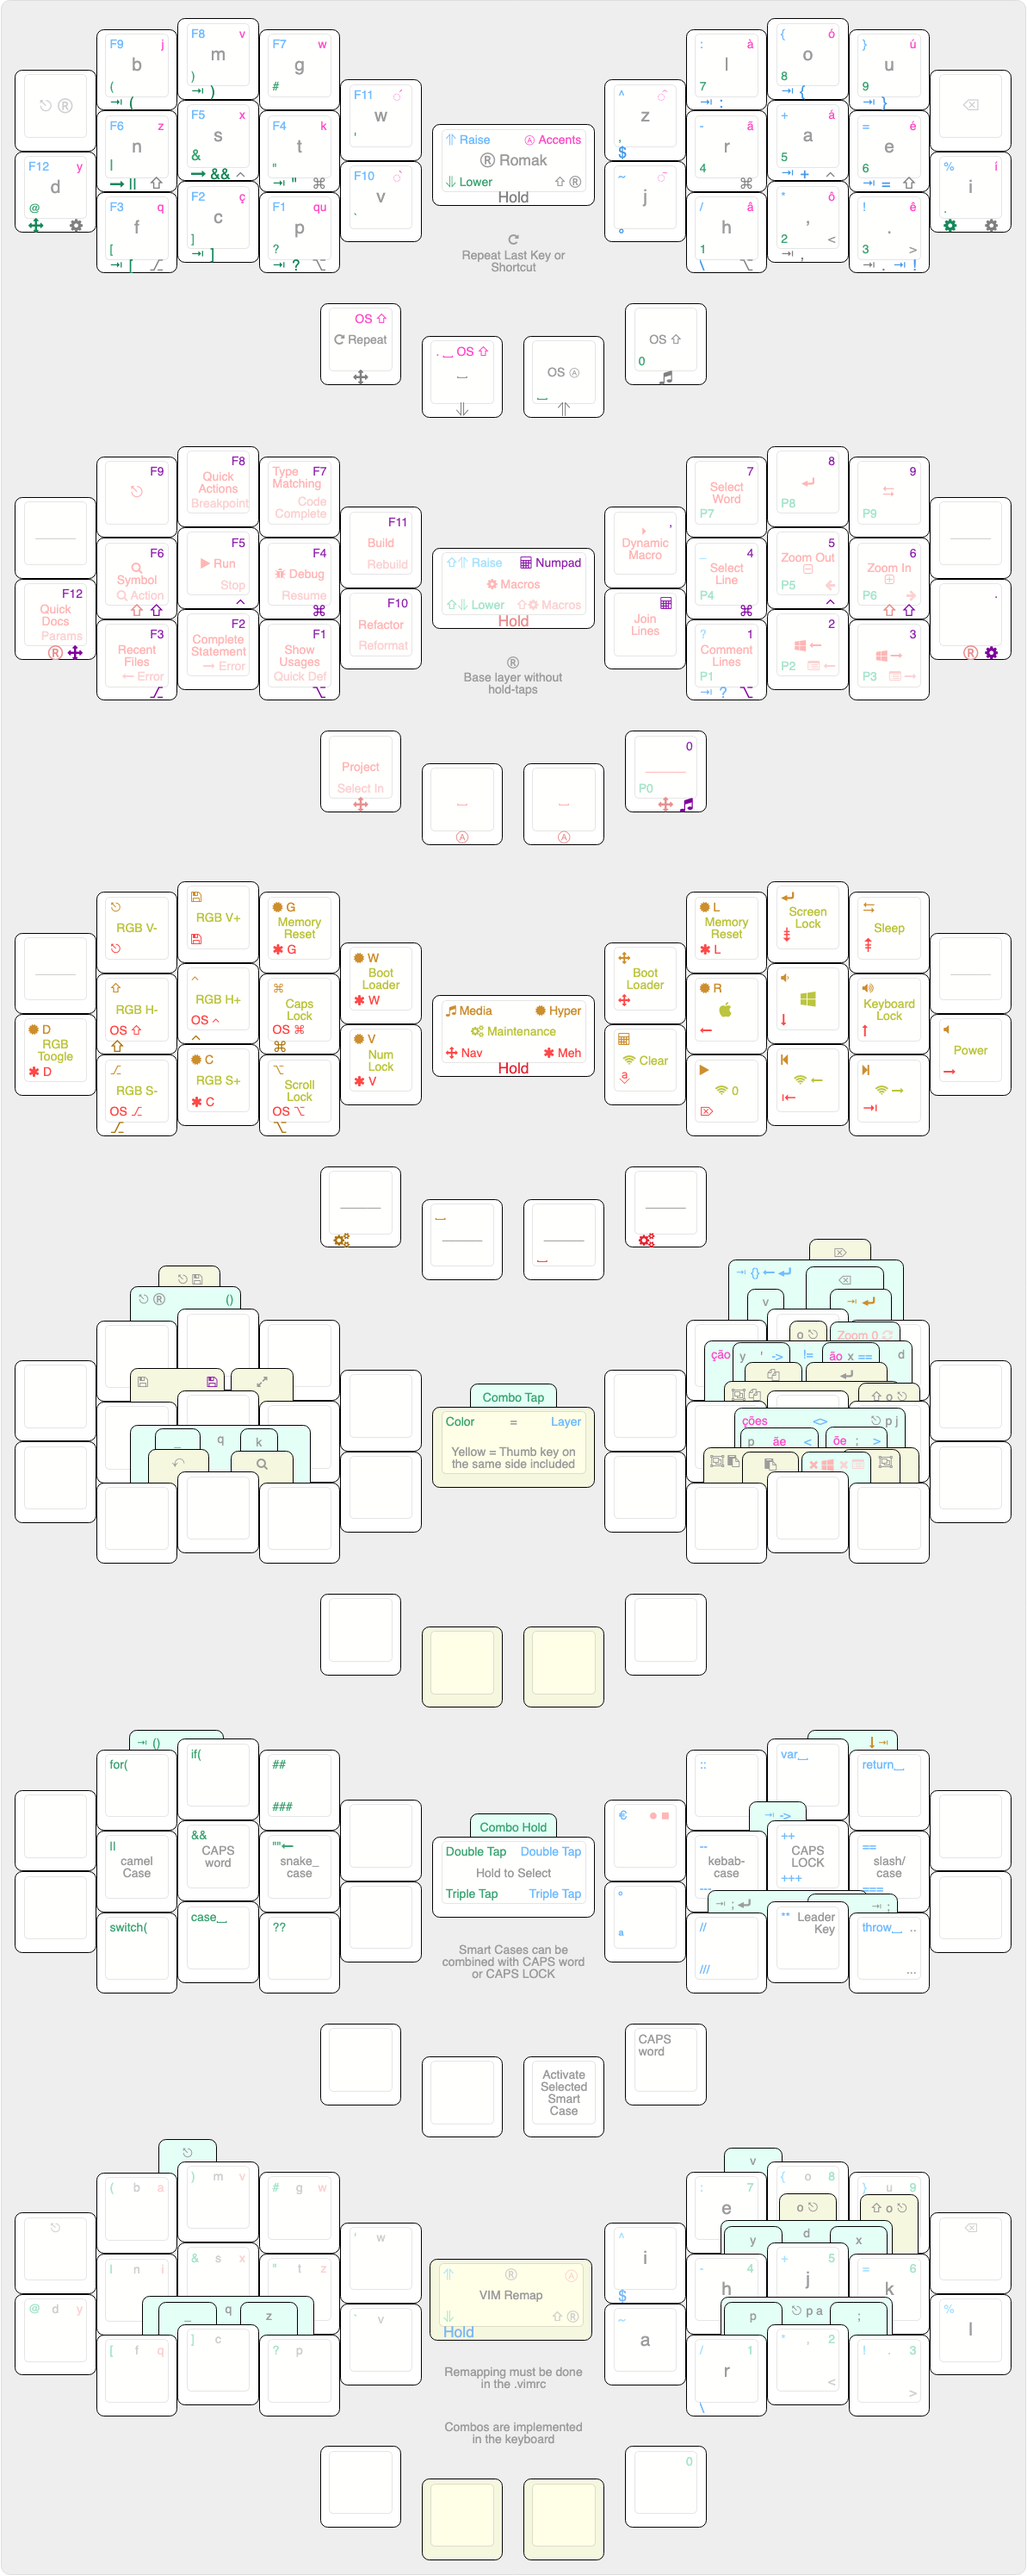
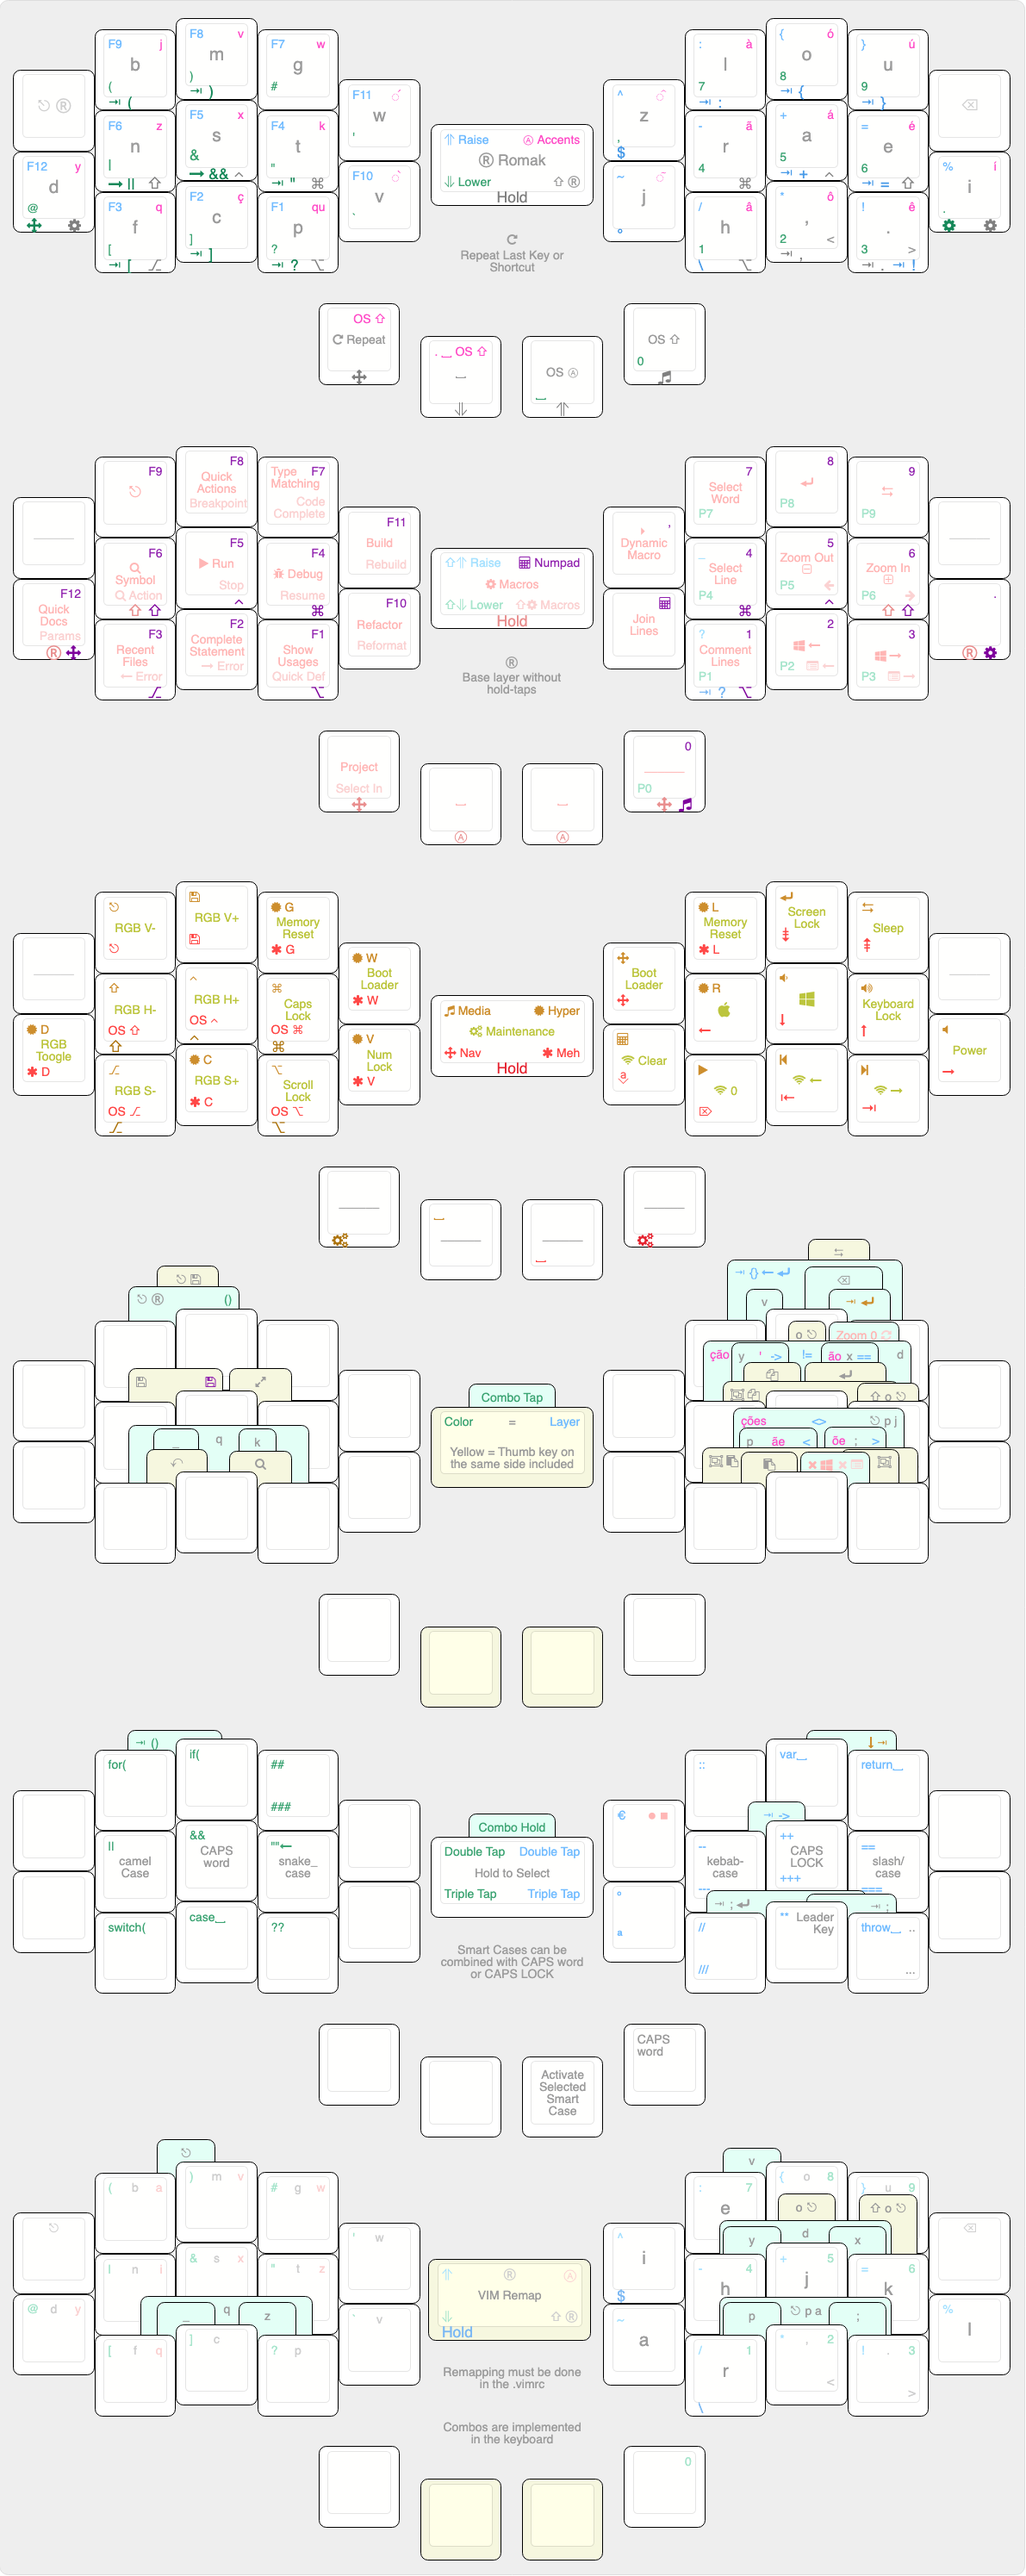
replace delete combo by tab combo

diff --git a/src/qmk/users/rafaelromao/features/combos.c b/src/qmk/users/rafaelromao/features/combos.c
@@ -8,7 +8,7 @@ const uint16_t PROGMEM l_num_esc_combo[] = {KC_F9, KC_F8, COMBO_END};
 const uint16_t PROGMEM l_num_sav_combo[] = {KC_SPC, SF_F6, CT_F5, COMBO_END};
 const uint16_t PROGMEM r_num_ent_combo[] = {RAI_SPC, CT_5, SF_6, COMBO_END};
 const uint16_t PROGMEM r_num_bsp_combo[] = {KC_8, KC_9, COMBO_END};
-const uint16_t PROGMEM r_num_del_combo[] = {RAI_SPC, KC_8, KC_9, COMBO_END};
+const uint16_t PROGMEM r_num_tab_combo[] = {RAI_SPC, KC_8, KC_9, COMBO_END};
 
 // Lower
 
@@ -77,7 +77,7 @@ const uint16_t PROGMEM r_rom_pas_combo[] = {RAI_ACT, LALTT_H, TD_COMM, COMBO_END
 const uint16_t PROGMEM r_rom_spa_combo[] = {RAI_ACT, LALTT_H, TD_COMM, TD_DOT, COMBO_END};
 const uint16_t PROGMEM r_rom_ent_combo[] = {RAI_ACT, RCTLT_A, RSFTT_E, COMBO_END};
 const uint16_t PROGMEM r_rom_bsp_combo[] = {KC_O, KC_U, COMBO_END};
-const uint16_t PROGMEM r_rom_del_combo[] = {RAI_ACT, KC_O, KC_U, COMBO_END};
+const uint16_t PROGMEM r_rom_tab_combo[] = {RAI_ACT, KC_O, KC_U, COMBO_END};
 const uint16_t PROGMEM r_rom_sal_combo[] = {RAI_ACT, TD_COMM, TD_DOT, COMBO_END};
 const uint16_t PROGMEM r_rom_sco_combo[] = {TD_COMM, TD_DOT, COMBO_END};
 #ifndef SAVE_MEMORY
@@ -94,7 +94,7 @@ combo_t key_combos[] = {
     COMBO(r_rom_p_combo, KC_P),       COMBO(l_acc_esc_combo, MC_ESCC),  COMBO(l_nav_esc_combo, MC_ESCC),
     COMBO(l_num_esc_combo, MC_ESCC),  COMBO(r_nav_ent_combo, KC_ENT),   COMBO(l_rom_esv_combo, MC_ESAV),
     COMBO(l_num_sav_combo, MC_SAVE),  COMBO(r_nav_bsp_combo, KC_BSPC),  COMBO(r_rai_bsp_combo, KC_BSPC),
-    COMBO(r_num_bsp_combo, KC_BSPC),  COMBO(r_num_del_combo, KC_DEL),   COMBO(r_acc_bsp_combo, KC_BSPC),
+    COMBO(r_num_bsp_combo, KC_BSPC),  COMBO(r_num_tab_combo, KC_TAB),   COMBO(r_acc_bsp_combo, KC_BSPC),
     COMBO(r_num_ent_combo, KC_ENT),   COMBO(r_acc_squo_combo, MC_SQUO), COMBO(l_low_par_combo, TD_PARN),
     COMBO(r_low_ent_combo, KC_ENT),   COMBO(r_acc_ae_combo, MC_AE),     COMBO(r_acc_ao_combo, MC_AO),
     COMBO(r_acc_cao_combo, MC_CAO),   COMBO(r_acc_oe_combo, MC_OE),     COMBO(r_acc_coes_combo, MC_COES),
@@ -107,7 +107,7 @@ combo_t key_combos[] = {
     COMBO(r_rom_pas_combo, MC_PAST),  COMBO(r_rom_spa_combo, MC_SPAS),  COMBO(l_rom_sav_combo, MC_SAVE),
     COMBO(l_rom_esc_combo, MC_ESCC),  COMBO(l_rom_und_combo, MC_UNDO),  COMBO(l_rom_fin_combo, MC_FIND),
     COMBO(r_rom_oes_combo, MC_OESC),  COMBO(r_rom_soe_combo, MC_SOES),  COMBO(r_rom_bsp_combo, KC_BSPC),
-    COMBO(r_rom_del_combo, KC_DEL),   COMBO(r_rom_ent_combo, KC_ENT),   COMBO(r_rom_sal_combo, MC_SELC),
+    COMBO(r_rom_tab_combo, KC_TAB),   COMBO(r_rom_ent_combo, KC_ENT),   COMBO(r_rom_sal_combo, MC_SELC),
     COMBO(r_rai_sar_combo, TD_SARR),  COMBO(r_rai_deq_combo, MC_DEQ),   COMBO(r_rai_neq_combo, MC_NEQ),
     COMBO(r_rai_ltgt_combo, MC_LTGT), COMBO(r_rai_lt_combo, TD_LT),     COMBO(r_rai_gt_combo, TD_GT),
     COMBO(r_rai_cur_combo, MC_CUR),   COMBO(r_med_ent_combo, TD_EENT),  COMBO(secret_1_combo, MC_SECRET_1)};
